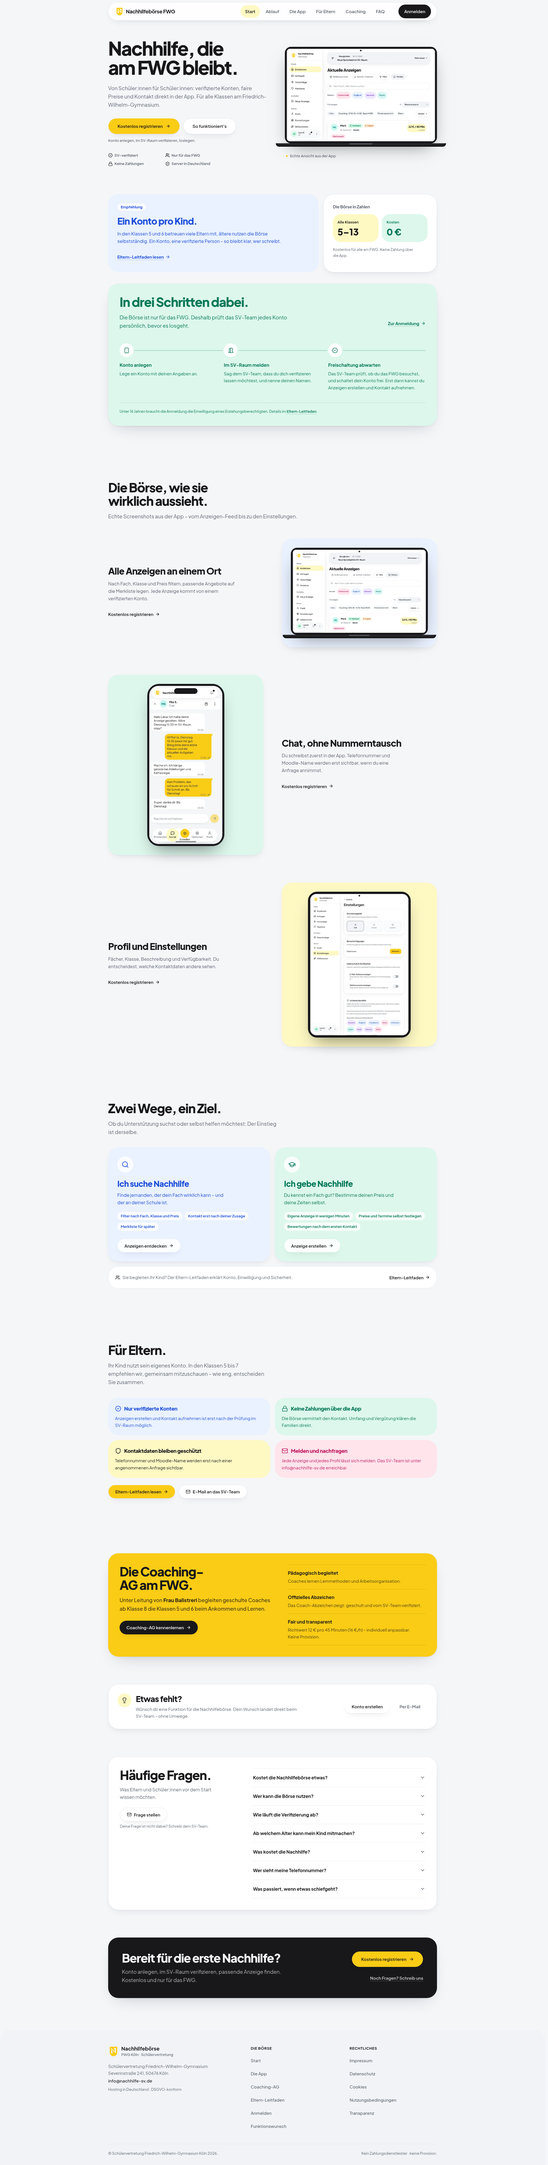
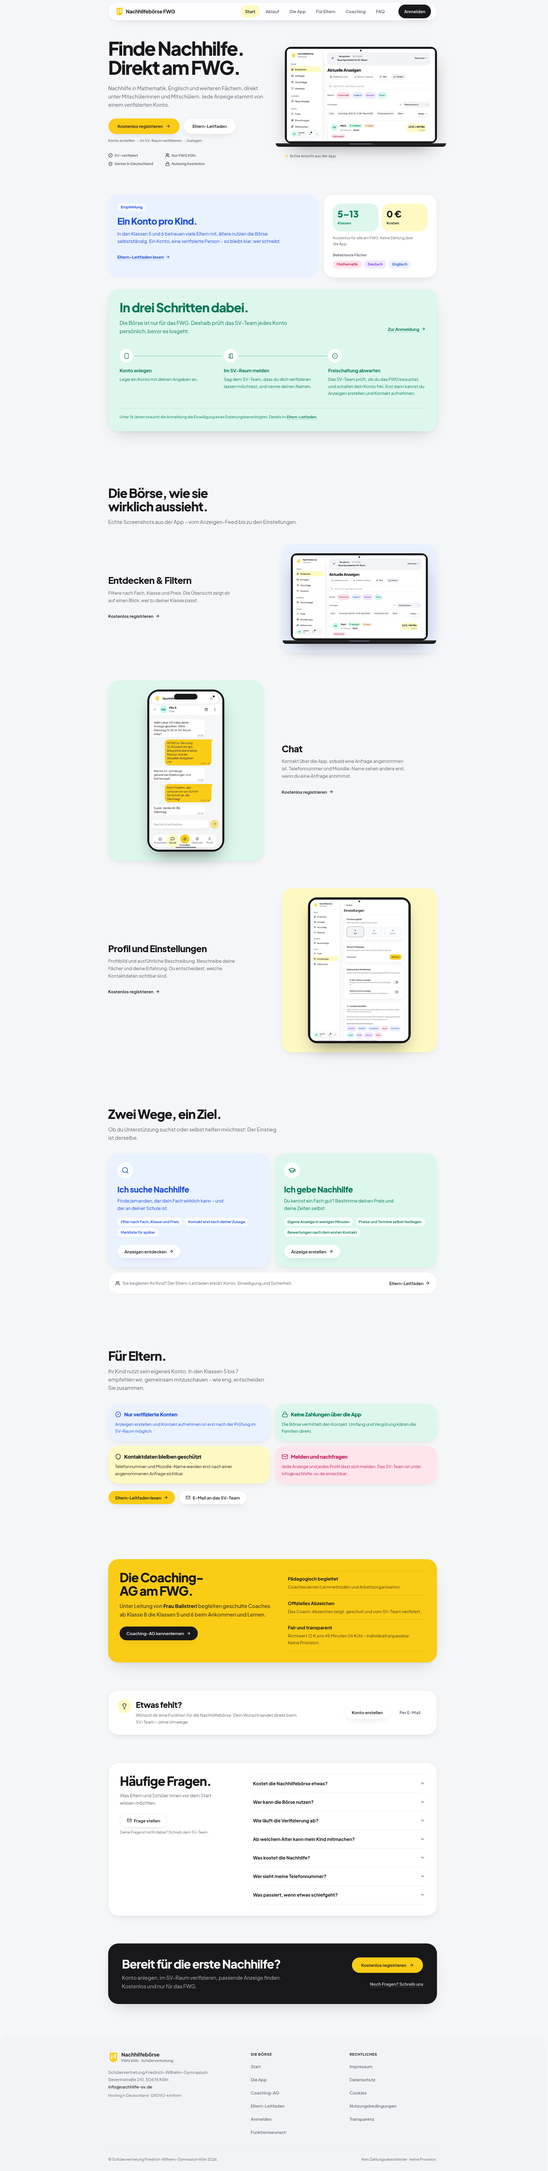
impeccable polish: apply revision 3 feedback to the landing page
Restore the old hero and app-tour copy, remove the stats headline in favour
of live "aktive Nutzer" / "aktive Anzeigen" values, add the three most
popular subjects as pills, start and end the step connector on the step
circles, and bring back hover motion on icons and parent tiles.

Evidence and report: docs/website-review/revision3 and REPORT.md section 14.

diff --git a/src/pages/Landing.tsx b/src/pages/Landing.tsx
@@ -20,6 +20,7 @@ import VerifySteps from '../components/VerifySteps';
 import { Logo } from '../components/ui/Logo';
 import { useAuth } from '../context/AuthContext';
 import { api } from '../lib/api';
+import { SubjectChip, subjectLabelMap, type Subject } from '../components/SubjectChip';
 import { buttonVariants } from '../components/ui/button';
 import { DeviceFrame } from '../components/site/DeviceFrame';
 import { Reveal } from '../components/site/Reveal';
@@ -31,10 +32,19 @@ import feedShot from '../assets/screens/v2-laptop-feed.webp';
 
 const TRUST = [
     { icon: BadgeCheck, label: 'SV-verifiziert' },
-    { icon: Users, label: 'Nur für das FWG' },
-    { icon: Lock, label: 'Keine Zahlungen' },
+    { icon: Users, label: 'Nur FWG Köln' },
     { icon: ShieldCheck, label: 'Server in Deutschland' },
+    { icon: Lock, label: 'Nutzung kostenlos' },
 ];
+
+/* Gleiche Reihenfolge wie im Feed; wird durch echte Klicks ersetzt, sobald
+   genug Daten vorliegen. Es werden immer nur die ersten drei gezeigt. */
+const POPULAR_FALLBACK: Subject[] = ['mathematik', 'deutsch', 'englisch'];
+
+/* Ein Piktogramm reagiert auf die Gruppe seiner Karte: kippt an, wird größer
+   und federt über die Tailwind-Dauer zurück. Respektiert reduzierte Bewegung. */
+const ICON_REACT_CLASS =
+    'motion-safe:transition-transform motion-safe:duration-300 motion-safe:ease-out motion-safe:group-hover:-rotate-6 motion-safe:group-hover:scale-110';
 
 const FAQ = [
     {
@@ -79,6 +89,7 @@ export default function Landing() {
     const location = useLocation();
     const [isFeatureOpen, setIsFeatureOpen] = useState(false);
     const [liveStats, setLiveStats] = useState<{ activeAds: number | null; users: number | null } | null>(null);
+    const [popularSubjects, setPopularSubjects] = useState<Subject[]>(POPULAR_FALLBACK);
 
     // Live-Kennzahlen sind optional: ohne verwertbare Antwort bleibt die Seite vollständig.
     useEffect(() => {
@@ -96,14 +107,31 @@ export default function Landing() {
         return () => { cancelled = true; };
     }, []);
 
+    // Drei beliebteste Fächer: echte Klickzahlen zuerst, danach die
+    // Standardliste auffüllen, damit die Reihe immer vollständig ist.
+    useEffect(() => {
+        let cancelled = false;
+        api.analytics.popularSubjects()
+            .then(({ data, error }) => {
+                if (cancelled || error || !data) return;
+                const ranked = (((data as { subjects?: unknown }).subjects ?? []) as string[])
+                    .filter((s): s is Subject => s in subjectLabelMap);
+                const list = [...new Set([...ranked, ...POPULAR_FALLBACK])].slice(0, 3);
+                if (list.length === 0) return;
+                setPopularSubjects(list);
+            })
+            .catch(() => { /* Fallback-Liste bleibt. */ });
+        return () => { cancelled = true; };
+    }, []);
+
     const registerZiel = user ? '/' : '/login?mode=register';
     const loginZiel = user ? '/' : '/login';
     const bietZiel = user ? '/create-ad' : '/login';
 
     const stats = liveStats
         ? [
-            ...(liveStats.activeAds !== null ? [{ value: liveStats.activeAds, label: 'Aktive Anzeigen', tone: 'bg-pastel-yellow text-pastel-yellow-foreground' }] : []),
-            ...(liveStats.users !== null ? [{ value: liveStats.users, label: 'Nutzer:innen', tone: 'bg-pastel-mint text-pastel-mint-foreground' }] : []),
+            ...(liveStats.users !== null ? [{ value: liveStats.users, label: 'aktive Nutzer', tone: 'bg-pastel-mint text-pastel-mint-foreground' }] : []),
+            ...(liveStats.activeAds !== null ? [{ value: liveStats.activeAds, label: 'aktive Anzeigen', tone: 'bg-pastel-yellow text-pastel-yellow-foreground' }] : []),
         ]
         : [];
 
@@ -131,12 +159,6 @@ export default function Landing() {
         return () => window.cancelAnimationFrame(frame);
     }, [location.key, location.pathname, location.state]);
 
-    const zuAbschnitt = (id: string) => {
-        const el = document.getElementById(id);
-        if (!el) return;
-        el.scrollIntoView({ behavior: prefersReducedMotion() ? 'auto' : 'smooth', block: 'start' });
-    };
-
     return (
         <main className="min-h-dvh overflow-x-clip bg-background font-sans text-foreground">
             {/* Skip-Link als Scroll-Button: reines href="#inhalt" wäre unter HashRouter eine 404-Route. */}
@@ -163,10 +185,10 @@ export default function Landing() {
                             <Reveal>
                                 <div className="min-w-0">
                                     <h1 className="max-w-[15ch] text-[2.6rem] font-extrabold leading-[1.02] tracking-[-0.045em] sm:text-[3.6rem] lg:text-[4.1rem]">
-                                        Nachhilfe, die am FWG bleibt.
+                                        Finde Nachhilfe. Direkt am FWG.
                                     </h1>
                                     <p className="mt-5 max-w-xl text-base leading-relaxed text-muted-foreground sm:mt-6 sm:text-lg">
-                                        Von Schüler:innen für Schüler:innen: verifizierte Konten, faire Preise und Kontakt direkt in der App. Für alle Klassen am Friedrich-Wilhelm-Gymnasium.
+                                        Nachhilfe in Mathematik, Englisch und weiteren Fächern, direkt unter Mitschülerinnen und Mitschülern. Jede Anzeige stammt von einem verifizierten Konto.
                                     </p>
                                     <div className="mt-8 flex flex-col gap-3 sm:flex-row">
                                         <Link
@@ -176,23 +198,22 @@ export default function Landing() {
                                             {user ? 'Anzeigen ansehen' : 'Kostenlos registrieren'}
                                             <ArrowRight aria-hidden className="motion-safe:transition-transform motion-safe:group-hover:translate-x-0.5" />
                                         </Link>
-                                        <button
-                                            type="button"
-                                            onClick={() => zuAbschnitt('so-funktioniert-es')}
-                                            className={cn(buttonVariants({ variant: 'outline', size: 'lg' }), 'w-full sm:w-auto')}
+                                        <Link
+                                            to="/eltern-leitfaden"
+                                            className={cn(buttonVariants({ variant: 'outline', size: 'lg' }), 'w-full motion-safe:hover:-translate-y-0.5 sm:w-auto')}
                                         >
-                                            So funktioniert’s
-                                        </button>
+                                            Eltern-Leitfaden
+                                        </Link>
                                     </div>
                                     {!user && (
                                         <p className="mt-3 text-[13px] font-medium leading-relaxed text-muted-foreground">
-                                            Konto anlegen, im SV-Raum verifizieren, loslegen.
+                                            Konto erstellen → im SV-Raum verifizieren → loslegen.
                                         </p>
                                     )}
                                     <ul className="mt-8 grid max-w-sm grid-cols-2 gap-x-4 gap-y-2.5" aria-label="Vertrauen auf einen Blick">
                                         {TRUST.map((t) => (
-                                            <li key={t.label} className="inline-flex items-center gap-1.5 text-[13px] font-semibold text-muted-foreground">
-                                                <t.icon size={16} className="text-foreground" aria-hidden />
+                                            <li key={t.label} className="group inline-flex items-center gap-1.5 text-[13px] font-semibold text-muted-foreground">
+                                                <t.icon size={16} className={cn('text-foreground', ICON_REACT_CLASS)} aria-hidden />
                                                 {t.label}
                                             </li>
                                         ))}
@@ -202,13 +223,13 @@ export default function Landing() {
 
                             <Reveal delay={90}>
                                 <div className="mx-auto w-full max-w-[620px] px-2 sm:px-0">
-                                    <div className="relative">
+                                    <div className="group relative">
                                         <DeviceFrame
                                             kind="laptop"
                                             src={feedShot}
                                             alt="Anzeigenübersicht der Nachhilfebörse am Laptop"
                                             priority
-                                            className="relative z-10 w-full"
+                                            className="relative z-10 w-full motion-safe:transition-transform motion-safe:duration-500 motion-safe:ease-out motion-safe:group-hover:-translate-y-1"
                                         />
                                     </div>
                                     <p className="mt-4 flex items-center justify-center gap-2 text-xs font-medium text-muted-foreground sm:mt-6 sm:justify-start sm:pl-1">
@@ -244,34 +265,39 @@ export default function Landing() {
                                 </div>
 
                                 <div className="rounded-panel border border-border bg-card p-6 shadow-soft sm:p-8">
-                                    <h3 className="text-sm font-bold text-muted-foreground">Die Börse in Zahlen</h3>
                                     {stats.length > 0 ? (
                                         <>
-                                            <dl className="mt-4 grid grid-cols-2 gap-3">
+                                            <dl className="grid grid-cols-2 gap-3">
                                                 {stats.map((s) => (
-                                                    <div key={s.label} className={cn('rounded-card px-4 py-5', s.tone)}>
-                                                        <dt className="text-xs font-semibold leading-snug">{s.label}</dt>
-                                                        <dd className="mt-2 text-[2rem] font-extrabold leading-none tabular-nums">{s.value.toLocaleString('de-DE')}</dd>
+                                                    <div key={s.label} className={cn('flex flex-col-reverse rounded-card px-4 py-5', s.tone)}>
+                                                        <dt className="mt-2 text-xs font-semibold leading-snug">{s.label}</dt>
+                                                        <dd className="text-[2rem] font-extrabold leading-none tabular-nums">{s.value.toLocaleString('de-DE')}</dd>
                                                     </div>
                                                 ))}
                                             </dl>
-                                            <p className="mt-4 text-xs leading-relaxed text-muted-foreground">Live aus der Börse, ohne Namen und ohne Profile.</p>
+                                            <p className="mt-3 text-xs leading-relaxed text-muted-foreground">Live aus der Börse, ohne Namen und ohne Profile.</p>
                                         </>
                                     ) : (
                                         <>
-                                            <dl className="mt-4 grid grid-cols-2 gap-3">
-                                                <div className="rounded-card bg-pastel-yellow px-4 py-5 text-pastel-yellow-foreground">
-                                                    <dt className="text-xs font-semibold leading-snug">Alle Klassen</dt>
-                                                    <dd className="mt-2 text-[2rem] font-extrabold leading-none">5–13</dd>
+                                            <dl className="grid grid-cols-2 gap-3">
+                                                <div className="flex flex-col-reverse rounded-card bg-pastel-mint px-4 py-5 text-pastel-mint-foreground">
+                                                    <dt className="mt-2 text-xs font-semibold leading-snug">Klassen</dt>
+                                                    <dd className="text-[2rem] font-extrabold leading-none">5–13</dd>
                                                 </div>
-                                                <div className="rounded-card bg-pastel-mint px-4 py-5 text-pastel-mint-foreground">
-                                                    <dt className="text-xs font-semibold leading-snug">Kosten</dt>
-                                                    <dd className="mt-2 text-[2rem] font-extrabold leading-none">0 €</dd>
+                                                <div className="flex flex-col-reverse rounded-card bg-pastel-yellow px-4 py-5 text-pastel-yellow-foreground">
+                                                    <dt className="mt-2 text-xs font-semibold leading-snug">Kosten</dt>
+                                                    <dd className="text-[2rem] font-extrabold leading-none">0 €</dd>
                                                 </div>
                                             </dl>
-                                            <p className="mt-4 text-xs leading-relaxed text-muted-foreground">Kostenlos für alle am FWG. Keine Zahlung über die App.</p>
+                                            <p className="mt-3 text-xs leading-relaxed text-muted-foreground">Kostenlos für alle am FWG. Keine Zahlung über die App.</p>
                                         </>
                                     )}
+                                    <p className="mt-5 text-xs font-semibold text-muted-foreground">Beliebteste Fächer</p>
+                                    <ul className="mt-2.5 flex flex-wrap gap-2" aria-label="Beliebteste Fächer">
+                                        {popularSubjects.map((s) => (
+                                            <li key={s}><SubjectChip subject={s} /></li>
+                                        ))}
+                                    </ul>
                                 </div>
                             </div>
                         </Reveal>
@@ -331,8 +357,8 @@ export default function Landing() {
                         <div className="mt-12 space-y-16 sm:mt-16 sm:space-y-24">
                             {[
                                 {
-                                    title: 'Alle Anzeigen an einem Ort',
-                                    text: 'Nach Fach, Klasse und Preis filtern, passende Angebote auf die Merkliste legen. Jede Anzeige kommt von einem verifizierten Konto.',
+                                    title: 'Entdecken & Filtern',
+                                    text: 'Filtere nach Fach, Klasse und Preis. Die Übersicht zeigt dir auf einen Blick, wer zu deiner Klasse passt.',
                                     device: 'laptop' as const,
                                     src: feedShot,
                                     alt: 'Desktop-Ansicht „Aktuelle Anzeigen“ mit Filtern und Anzeigenkarten',
@@ -340,8 +366,8 @@ export default function Landing() {
                                     deviceClass: 'w-full max-w-[600px]',
                                 },
                                 {
-                                    title: 'Chat, ohne Nummerntausch',
-                                    text: 'Du schreibst zuerst in der App. Telefonnummer und Moodle-Name werden erst sichtbar, wenn du eine Anfrage annimmst.',
+                                    title: 'Chat',
+                                    text: 'Kontakt über die App, sobald eine Anfrage angenommen ist. Telefonnummer und Moodle-Name sehen andere erst, wenn du eine Anfrage annimmst.',
                                     device: 'phone' as const,
                                     src: phoneChatShot,
                                     alt: 'Chat-Ansicht auf dem Handy mit Nachrichten und Eingabeleiste',
@@ -350,7 +376,7 @@ export default function Landing() {
                                 },
                                 {
                                     title: 'Profil und Einstellungen',
-                                    text: 'Fächer, Klasse, Beschreibung und Verfügbarkeit. Du entscheidest, welche Kontaktdaten andere sehen.',
+                                    text: 'Profilbild und ausführliche Beschreibung. Beschreibe deine Fächer und deine Erfahrung. Du entscheidest, welche Kontaktdaten sichtbar sind.',
                                     device: 'tablet' as const,
                                     src: tabletSettingsShot,
                                     alt: 'Tablet-Ansicht der Einstellungen mit Erscheinungsbild, Benachrichtigungen und Datenschutz',
@@ -371,8 +397,13 @@ export default function Landing() {
                                                 <ArrowRight size={16} aria-hidden className="motion-safe:transition-transform motion-safe:group-hover:translate-x-0.5" />
                                             </Link>
                                         </div>
-                                        <div className={cn('rounded-panel p-5 shadow-soft sm:p-8', row.tone)}>
-                                            <DeviceFrame kind={row.device} src={row.src} alt={row.alt} className={row.deviceClass} />
+                                        <div className={cn('group rounded-panel p-5 shadow-soft sm:p-8', row.tone)}>
+                                            <DeviceFrame
+                                                kind={row.device}
+                                                src={row.src}
+                                                alt={row.alt}
+                                                className={cn(row.deviceClass, 'motion-safe:transition-transform motion-safe:duration-500 motion-safe:ease-out motion-safe:group-hover:-translate-y-1')}
+                                            />
                                         </div>
                                     </div>
                                 </Reveal>
@@ -480,9 +511,15 @@ export default function Landing() {
                                     { icon: Shield, t: 'Kontaktdaten bleiben geschützt', d: 'Telefonnummer und Moodle-Name werden erst nach einer angenommenen Anfrage sichtbar.', tone: 'bg-pastel-yellow text-pastel-yellow-foreground' },
                                     { icon: Mail, t: 'Melden und nachfragen', d: 'Jede Anzeige und jedes Profil lässt sich melden. Das SV-Team ist unter info@nachhilfe-sv.de erreichbar.', tone: 'bg-pastel-rose text-pastel-rose-foreground' },
                                 ].map((p) => (
-                                    <div key={p.t} className={cn('rounded-panel p-6', p.tone)}>
+                                    <div
+                                        key={p.t}
+                                        className={cn(
+                                            'group rounded-panel p-6 shadow-soft motion-safe:transition-transform motion-safe:duration-300 motion-safe:hover:-translate-y-1',
+                                            p.tone,
+                                        )}
+                                    >
                                         <dt className="flex items-center gap-2.5 text-lg font-extrabold tracking-tight">
-                                            <p.icon size={22} className="shrink-0" aria-hidden />
+                                            <p.icon size={22} className={cn('shrink-0', ICON_REACT_CLASS)} aria-hidden />
                                             {p.t}
                                         </dt>
                                         <dd className="mt-2 text-pretty text-sm leading-relaxed">{p.d}</dd>
@@ -497,8 +534,8 @@ export default function Landing() {
                                     Eltern-Leitfaden lesen
                                     <ArrowRight size={16} aria-hidden className="motion-safe:transition-transform motion-safe:group-hover:translate-x-0.5" />
                                 </Link>
-                                <a href="mailto:info@nachhilfe-sv.de?subject=Frage%20als%20Elternteil" className={cn(buttonVariants({ variant: 'outline' }), 'w-full sm:w-auto')}>
-                                    <Mail size={16} aria-hidden />
+                                <a href="mailto:info@nachhilfe-sv.de?subject=Frage%20als%20Elternteil" className={cn(buttonVariants({ variant: 'outline' }), 'group w-full sm:w-auto')}>
+                                    <Mail size={16} aria-hidden className={ICON_REACT_CLASS} />
                                     E-Mail an das SV-Team
                                 </a>
                             </div>
@@ -550,10 +587,10 @@ export default function Landing() {
                 <section id="funktionswunsch" className="scroll-mt-24 bg-background">
                     <div className="mx-auto max-w-site px-4 pb-16 sm:px-6 sm:pb-24">
                         <Reveal>
-                            <div className="flex flex-col gap-5 rounded-panel border border-border bg-card p-6 shadow-soft sm:flex-row sm:items-center sm:justify-between sm:p-8">
+                            <div className="group flex flex-col gap-5 rounded-panel border border-border bg-card p-6 shadow-soft motion-safe:transition-transform motion-safe:duration-300 motion-safe:hover:-translate-y-1 sm:flex-row sm:items-center sm:justify-between sm:p-8">
                                 <div className="flex items-start gap-4">
                                     <span className="grid size-12 shrink-0 place-items-center rounded-full bg-pastel-yellow text-pastel-yellow-foreground" aria-hidden>
-                                        <Lightbulb size={22} />
+                                        <Lightbulb size={22} className={ICON_REACT_CLASS} />
                                     </span>
                                     <div>
                                         <h2 className="text-xl font-extrabold tracking-tight sm:text-2xl">Etwas fehlt?</h2>
@@ -596,9 +633,9 @@ export default function Landing() {
                                     </p>
                                     <a
                                         href="mailto:info@nachhilfe-sv.de?subject=Frage%20zur%20Nachhilfeb%C3%B6rse"
-                                        className={cn(buttonVariants({ variant: 'outline' }), 'mt-6')}
+                                        className={cn(buttonVariants({ variant: 'outline' }), 'group mt-6')}
                                     >
-                                        <Mail size={16} aria-hidden />
+                                        <Mail size={16} aria-hidden className={ICON_REACT_CLASS} />
                                         Frage stellen
                                     </a>
                                     <p className="mt-2 text-[13px] text-muted-foreground">Deine Frage ist nicht dabei? Schreib dem SV-Team.</p>

diff --git a/src/components/VerifySteps.tsx b/src/components/VerifySteps.tsx
@@ -69,21 +69,22 @@ export default function VerifySteps({ tone = 'du', variant = 'rows' }: VerifySte
     if (variant === 'timeline') {
         return (
             <ol className="relative grid gap-8 sm:grid-cols-3 sm:gap-6">
-                {/* Eine durchgehende Linie über die volle Breite — nicht drei Stummel. */}
+                {/* Eine Linie von der Mitte des ersten bis zur Mitte des letzten
+                    Kreises — der Weg beginnt und endet sichtbar an einem Schritt. */}
                 <m.span
                     aria-hidden
                     initial={reduceMotion ? false : { scaleX: 0 }}
                     whileInView={{ scaleX: 1 }}
                     viewport={{ once: true, margin: '-60px' }}
                     transition={{ duration: 0.7, ease: [0.16, 1, 0.3, 1] }}
-                    className="absolute left-0 right-0 top-6 hidden h-0.5 origin-left bg-pastel-mint-foreground/30 sm:block"
+                    className="absolute left-6 top-6 hidden h-0.5 w-[calc(66.667%+1rem)] origin-left bg-pastel-mint-foreground/30 sm:block"
                 />
                 {steps.map((s, i) => (
-                    <m.li key={s.title} {...stepAnim(i)} className="relative pl-16 sm:pl-0">
+                    <m.li key={s.title} {...stepAnim(i)} className="group relative pl-16 sm:pl-0">
                         {i < steps.length - 1 && (
                             <span aria-hidden className="absolute left-6 top-6 h-[calc(100%+2rem)] w-0.5 bg-pastel-mint-foreground/30 sm:hidden" />
                         )}
-                        <span className="relative z-10 grid size-12 place-items-center rounded-full bg-card text-pastel-mint-foreground ring-4 ring-pastel-mint" aria-hidden>
+                        <span className="relative z-10 grid size-12 place-items-center rounded-full bg-card text-pastel-mint-foreground ring-4 ring-pastel-mint motion-safe:transition-transform motion-safe:duration-300 motion-safe:ease-out motion-safe:group-hover:-rotate-6 motion-safe:group-hover:scale-110" aria-hidden>
                             <s.icon size={21} strokeWidth={2} />
                         </span>
                         <p className="mt-4 text-base font-bold text-pastel-mint-foreground">{s.title}</p>

diff --git a/docs/website-review/REPORT.md b/docs/website-review/REPORT.md
@@ -4,6 +4,9 @@ Branch: `website-redesign` (Basis `ui-design-v2`, Commit `136850e`)
 Umsetzung: `6e58854` — „impeccable redesign: calm, product-first landing for the new UI“
 Polish: `42d9b68` — „impeccable polish: hero, nav order, timeline, parents, closing CTA“
 Revision 2: `794d4c0` — „impeccable polish: trust strip, bento sections, continuous step line“
+Revision 3: Feedback vom 17.11.2026 — alte Texte im Hero und im App-Rundgang,
+Kennzahlen ohne Titel („aktive Nutzer“ / „aktive Anzeigen“), drei Fach-Pillen,
+Schrittlinie von Kreis zu Kreis, Hover-Bewegung bei Icons und Eltern-Kacheln.
 Vorschau: `http://localhost:5190/#/welcome` (siehe `PREVIEW.md`)
 
 ## 1. Produkt in einem Satz
@@ -334,3 +337,32 @@ Datenschutz-Schalter haben `role="switch"` und `aria-checked`.
 - `app-reference/v2-*.png` — die echten App-Screens, aus denen die Bühnen und
   Bildausschnitte stammen
 - `detect-*.txt`/`.json`, `BRIEF.md`, `DESIGN.md`, `PREVIEW.md`
+
+## 14. Revision 3 — Feedback vom 17.11.2026
+
+Umgesetzt auf `website-redesign`:
+
+1. **Hero-Texte.** Wieder der alte Wortlaut: „Finde Nachhilfe. Direkt am FWG.“,
+   der alte Untertitel und „Konto erstellen → im SV-Raum verifizieren →
+   loslegen.“ Die Gerätebühne und der Aufbau bleiben unverändert.
+2. **In drei Schritten dabei.** Die Linie beginnt in der Mitte des ersten
+   Kreises und endet in der Mitte des dritten; mobil läuft sie durch alle drei
+   Kreise. Jeder Schritt reagiert auf Hover: der Kreis kippt leicht an, wird
+   größer und federt zurück (`prefers-reduced-motion` schaltet das ab).
+3. **Kennzahlen.** Kein Titel mehr. Live stehen dort „X aktive Nutzer“ und
+   „Y aktive Anzeigen“; darunter die drei beliebtesten Fächer als kleine
+   Pillen (`analytics.php?action=popular_subjects`, mit Standardliste
+   aufgefüllt). Ohne Live-Daten bleibt der ehrliche Fakten-Fallback.
+4. **App-Rundgang.** Wieder die alten Texte: „Entdecken & Filtern“, „Chat“,
+   „Profil und Einstellungen“ — Geräte und Pastellbühnen unverändert.
+5. **Bewegung.** Trust-Icons, Eltern-Kacheln, Funktionswunsch, Geräte und
+   Schritt-Kreise animieren beim Hover wie auf der alten Seite; respektiert
+   `motion-safe`.
+
+Belege: `revision3/r3-{375,768,1280,1920}.png` (ganze Seite),
+`r3-trust-live.png` (Live-Kennzahlen mit der echten API-Antwort simuliert),
+`r3-trust.png` (Fakten-Fallback), `r3-hero.png`, `r3-hero-375.png`,
+`r3-steps.png`, `r3-steps-hover.png`, `r3-steps-375.png`, `r3-app.png`,
+`r3-eltern.png`, `r3-eltern-hover.png`, `r3-coaching.png`, `r3-faq.png`.
+Detektor über beide geänderten Dateien: `[]`. TypeScript, ESLint und
+Produktions-Build laufen ohne Fehler.

diff --git a/docs/website-review/PREVIEW.md b/docs/website-review/PREVIEW.md
@@ -23,6 +23,15 @@ curl -s -o /dev/null -w "%{http_code}\n" http://localhost:5190/
 
 ## Was anders ist
 
+- **Revision 3 (Feedback vom 17.11.2026):** Der Hero behält die ruhige
+  Gerätebühne, verwendet aber wieder die alten Texte („Finde Nachhilfe. Direkt
+  am FWG.“). Die Kennzahlenkarte hat keinen Titel mehr: Sie zeigt live
+  „X aktive Nutzer“ und „Y aktive Anzeigen“ und darunter die drei beliebtesten
+  Fächer als kleine Pillen. Die Schritte verbindet eine Linie, die an der Mitte
+  des ersten Kreises beginnt und an der Mitte des dritten endet; die Kreise
+  reagieren auf Hover. Der App-Rundgang nutzt wieder die alten Überschriften
+  („Entdecken & Filtern“, „Chat“, „Profil und Einstellungen“). Eltern-Kacheln,
+  Trust-Icons und Piktogramme animieren beim Hover.
 - Ruhiger, produktgeführter Hero: ein echter Laptop-Feed frei auf dem
   Seitenhintergrund, ohne gelben Kasten und ohne überlappendes Telefon.
 - Direkt darunter Vertrauen: „Ein Konto pro Kind“ mit Eltern-Leitfaden und
